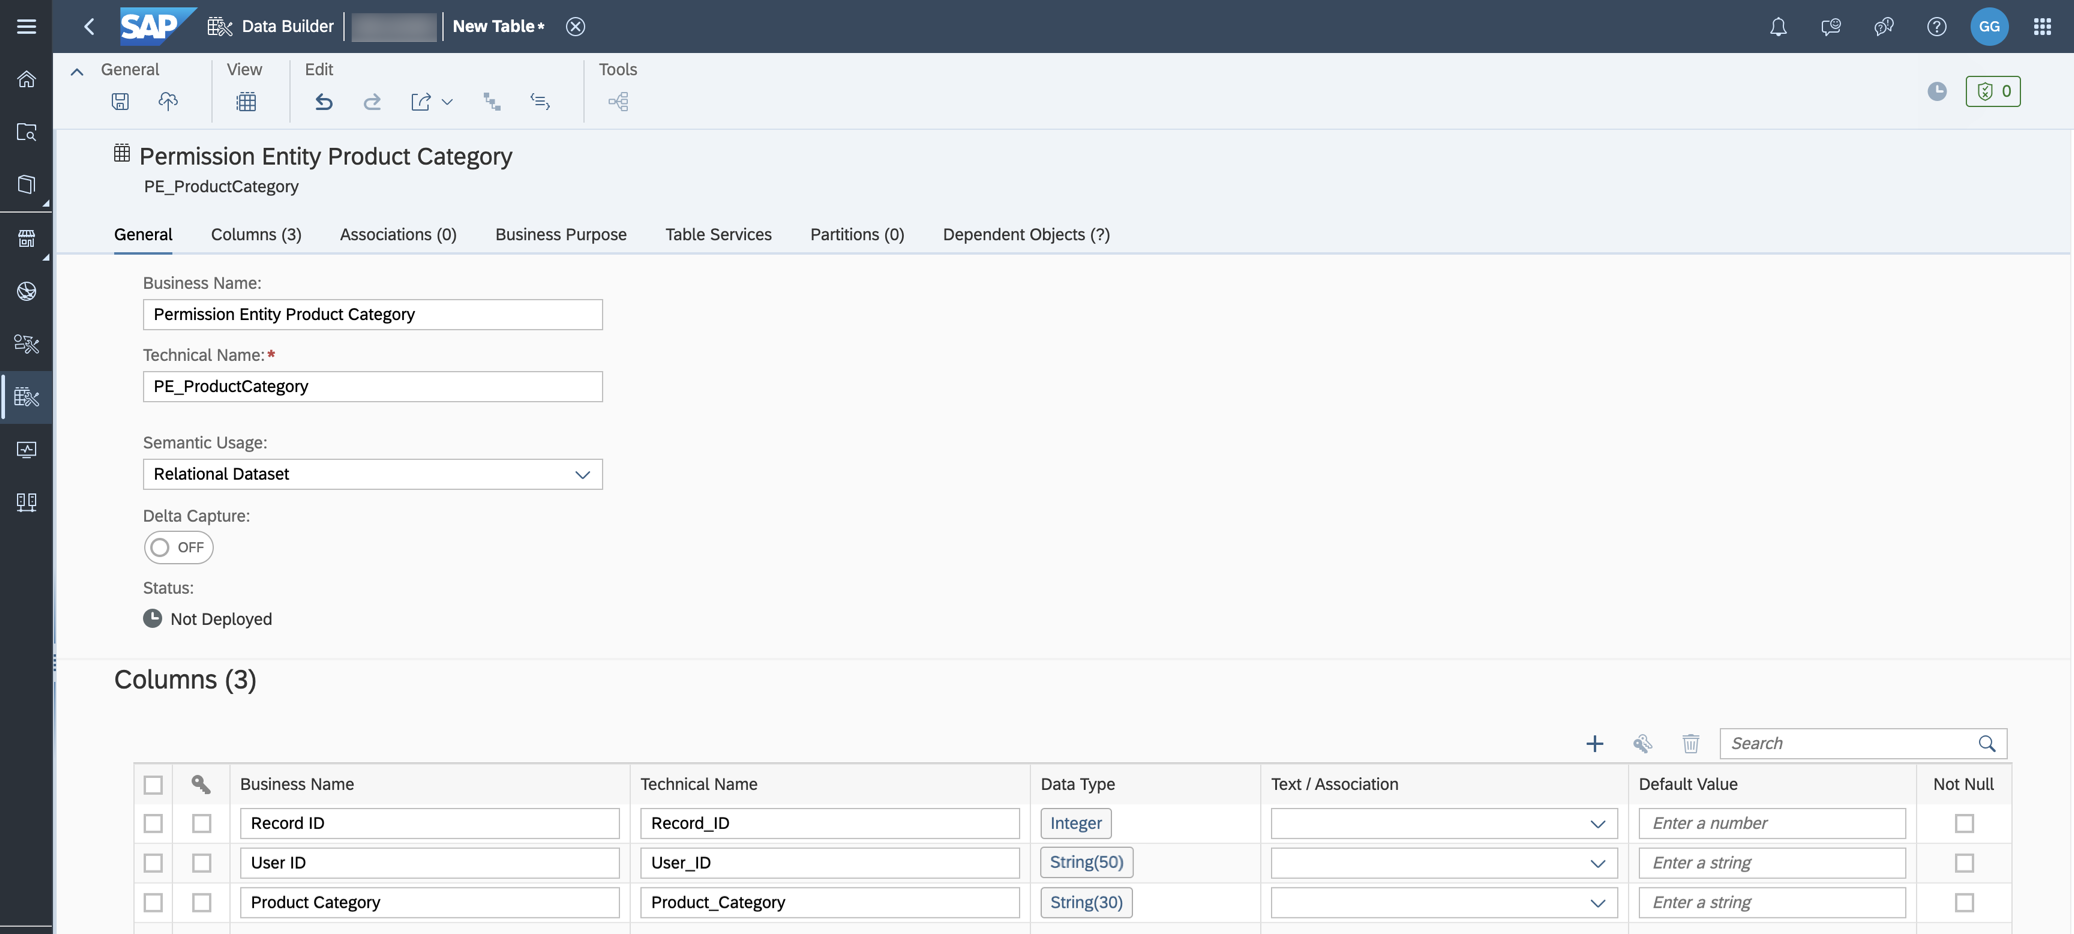
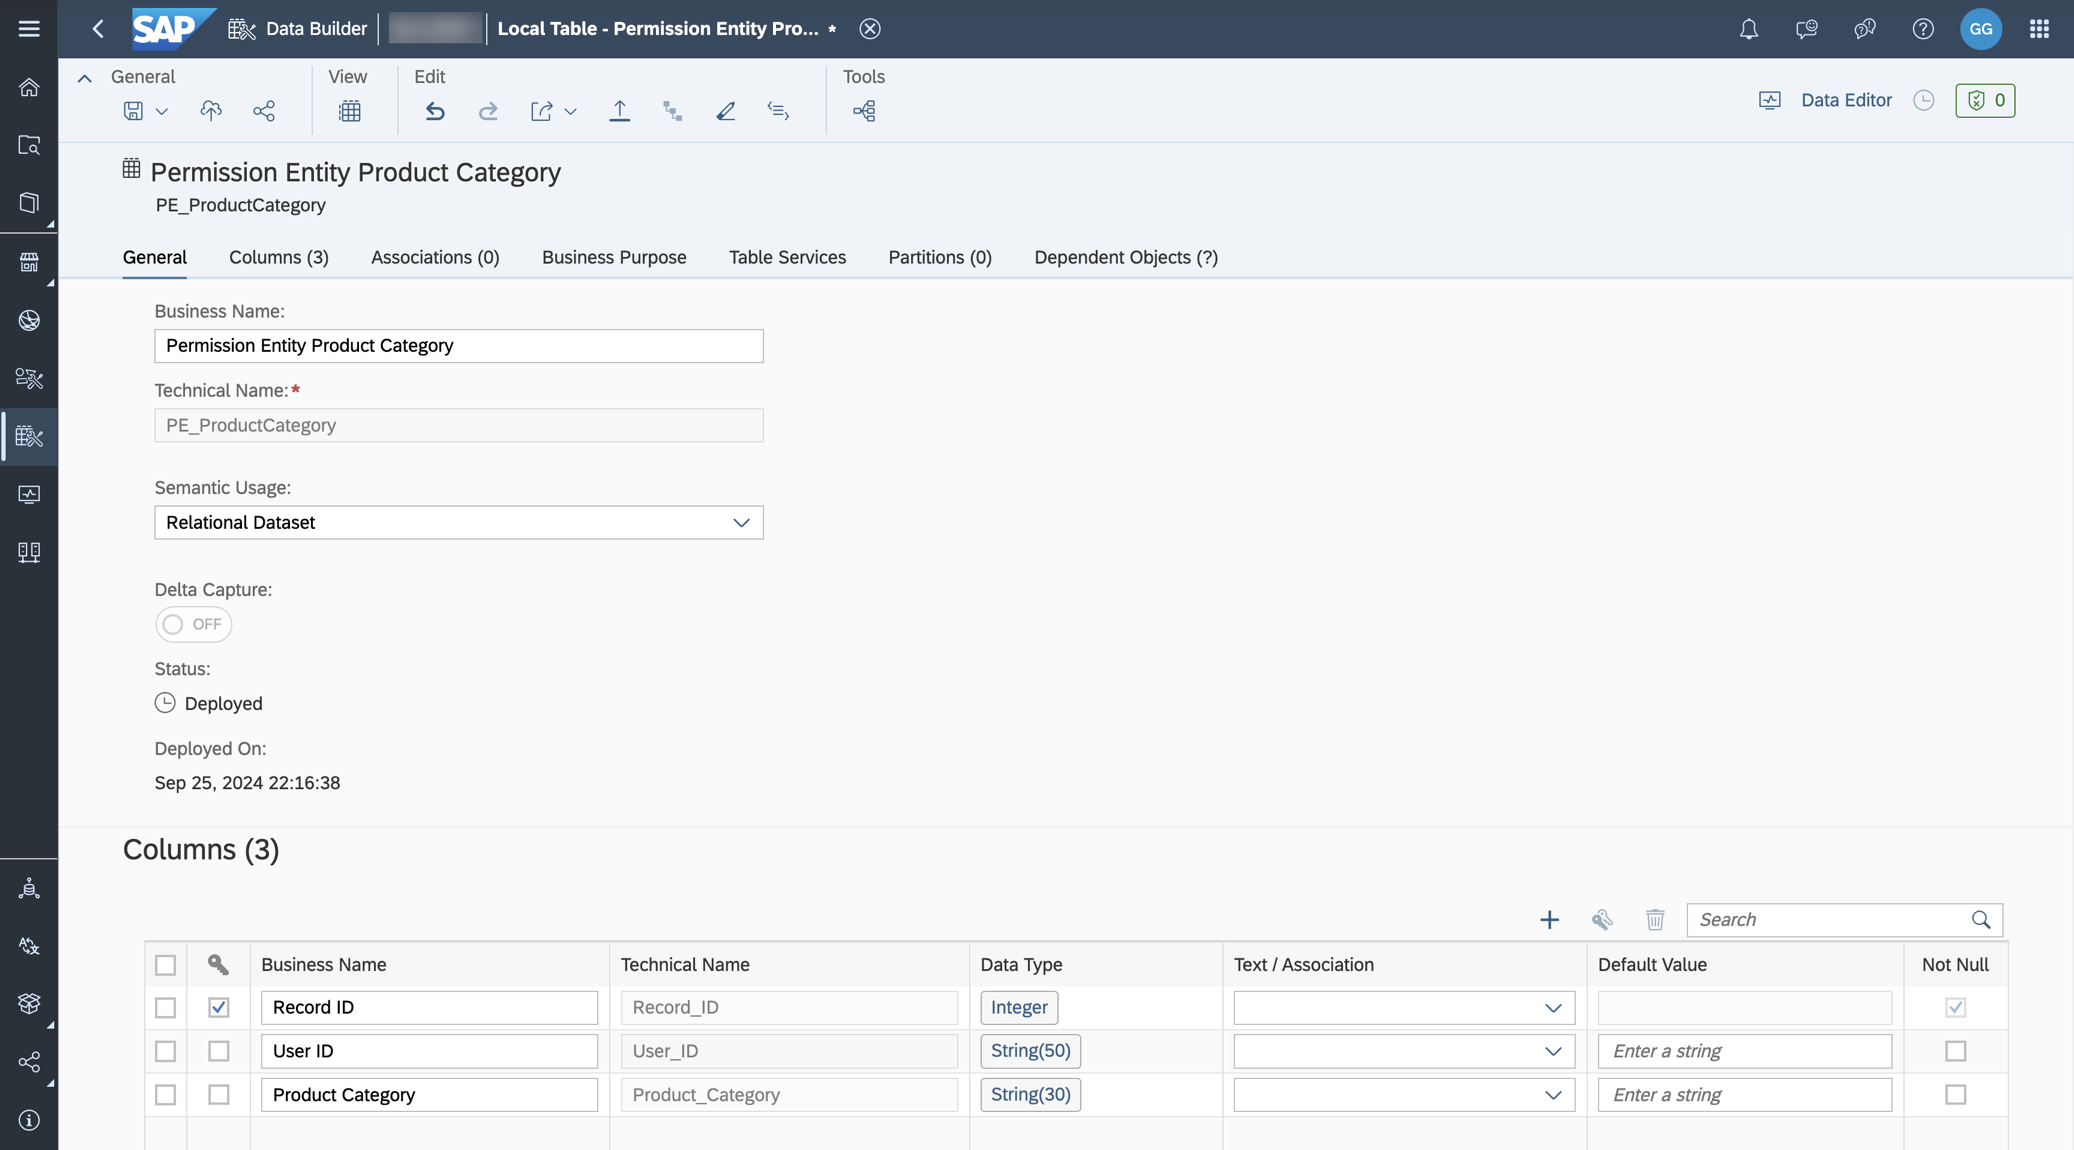
update

diff --git a/exercises/ex21/README.md b/exercises/ex21/README.md
@@ -31,25 +31,25 @@ You can specify the following types of hierarchies:
 
 6. Enter the following attributes for the table:
  
-| Key: | Business Name:        | Technical Name:                       | Data Type:          | Semantic Type       | Text/Association          |
-|:-----|:----------------------|:--------------------------------------|:--------------------|:--------------------|:----------------------|
-| X    | Child Category         | Child_Category                       | String (30)         |                |                       |
-|      | Parent Category       | Parent_Category                       | String (30)          | None                |          |
+| Key: | Business Name:        | Technical Name:                       | Data Type:          |
+|:-----|:----------------------|:--------------------------------------|:--------------------|
+| X    | Child Category         | Child_Category                       | String (30)         | 
+|      | Parent Category       | Parent_Category                       | String (30)          | 
 
 
 
-5. Ensure that ***Child Category*** is set as key.
+7. Ensure that ***Child Category*** is set as key.
 <br>![](images/00_00_002.png)   
   
-6. Now select the column ***Parent Category*** as parent and the column ***Child Category*** as child. Notice that the validation icon in the upper right corner turns green. 
+8. Now select the column ***Parent Category*** as parent and the column ***Child Category*** as child. Notice that the validation icon in the upper right corner turns green. 
 <br>![](images/00_00_0003.png) 
 
-7. Save and deploy your hierarchy table in the folder TECHED2024-DA180. 
+9. Save and deploy your hierarchy table in the folder TECHED2024-DA180. 
 
-8. Download the :file_folder: [CSV file data_hierarchy_productcategories.csv](data/data_hierarchy_productcategories.csv) and upload the data to the table. 
+10. Download the :file_folder: [CSV file data_hierarchy_productcategories.csv](data/data_hierarchy_productcategories.csv) and upload the data to the table. 
 <br><br>![](images/00_00_0004.png) 
 
-9. Confirm the data entries in the data preview.
+11. Confirm the data entries in the data preview.
 <br>![](images/00_00_0005.png) 
 
 ## Create a Permission Entity
@@ -79,12 +79,14 @@ A permission entity (view or table) lists SAP Datasphere user IDs (in the form r
 
 7. Add the following record to the table. Replace the first part of the email address below for user id with the name of your user (same name as the space). You could also copy your email address if you go to ***Profile*** in the upper right corner and select ***Settings***.
 
+<br>![](images/00_00_0008.png) 
+
 | Record ID                 	| User ID        	| Product Category        | 
 |-----------------------	|---------------	| ---------------	|
 |          1      	| geXXXXXX@sapexperienceacademy.com     	|  Non-Alcoholic     	| 
 
 8. Save the added record.
-<br>![](images/00_00_0008.png) 
+
 
 
 ## Create a Data Access Control Entity
